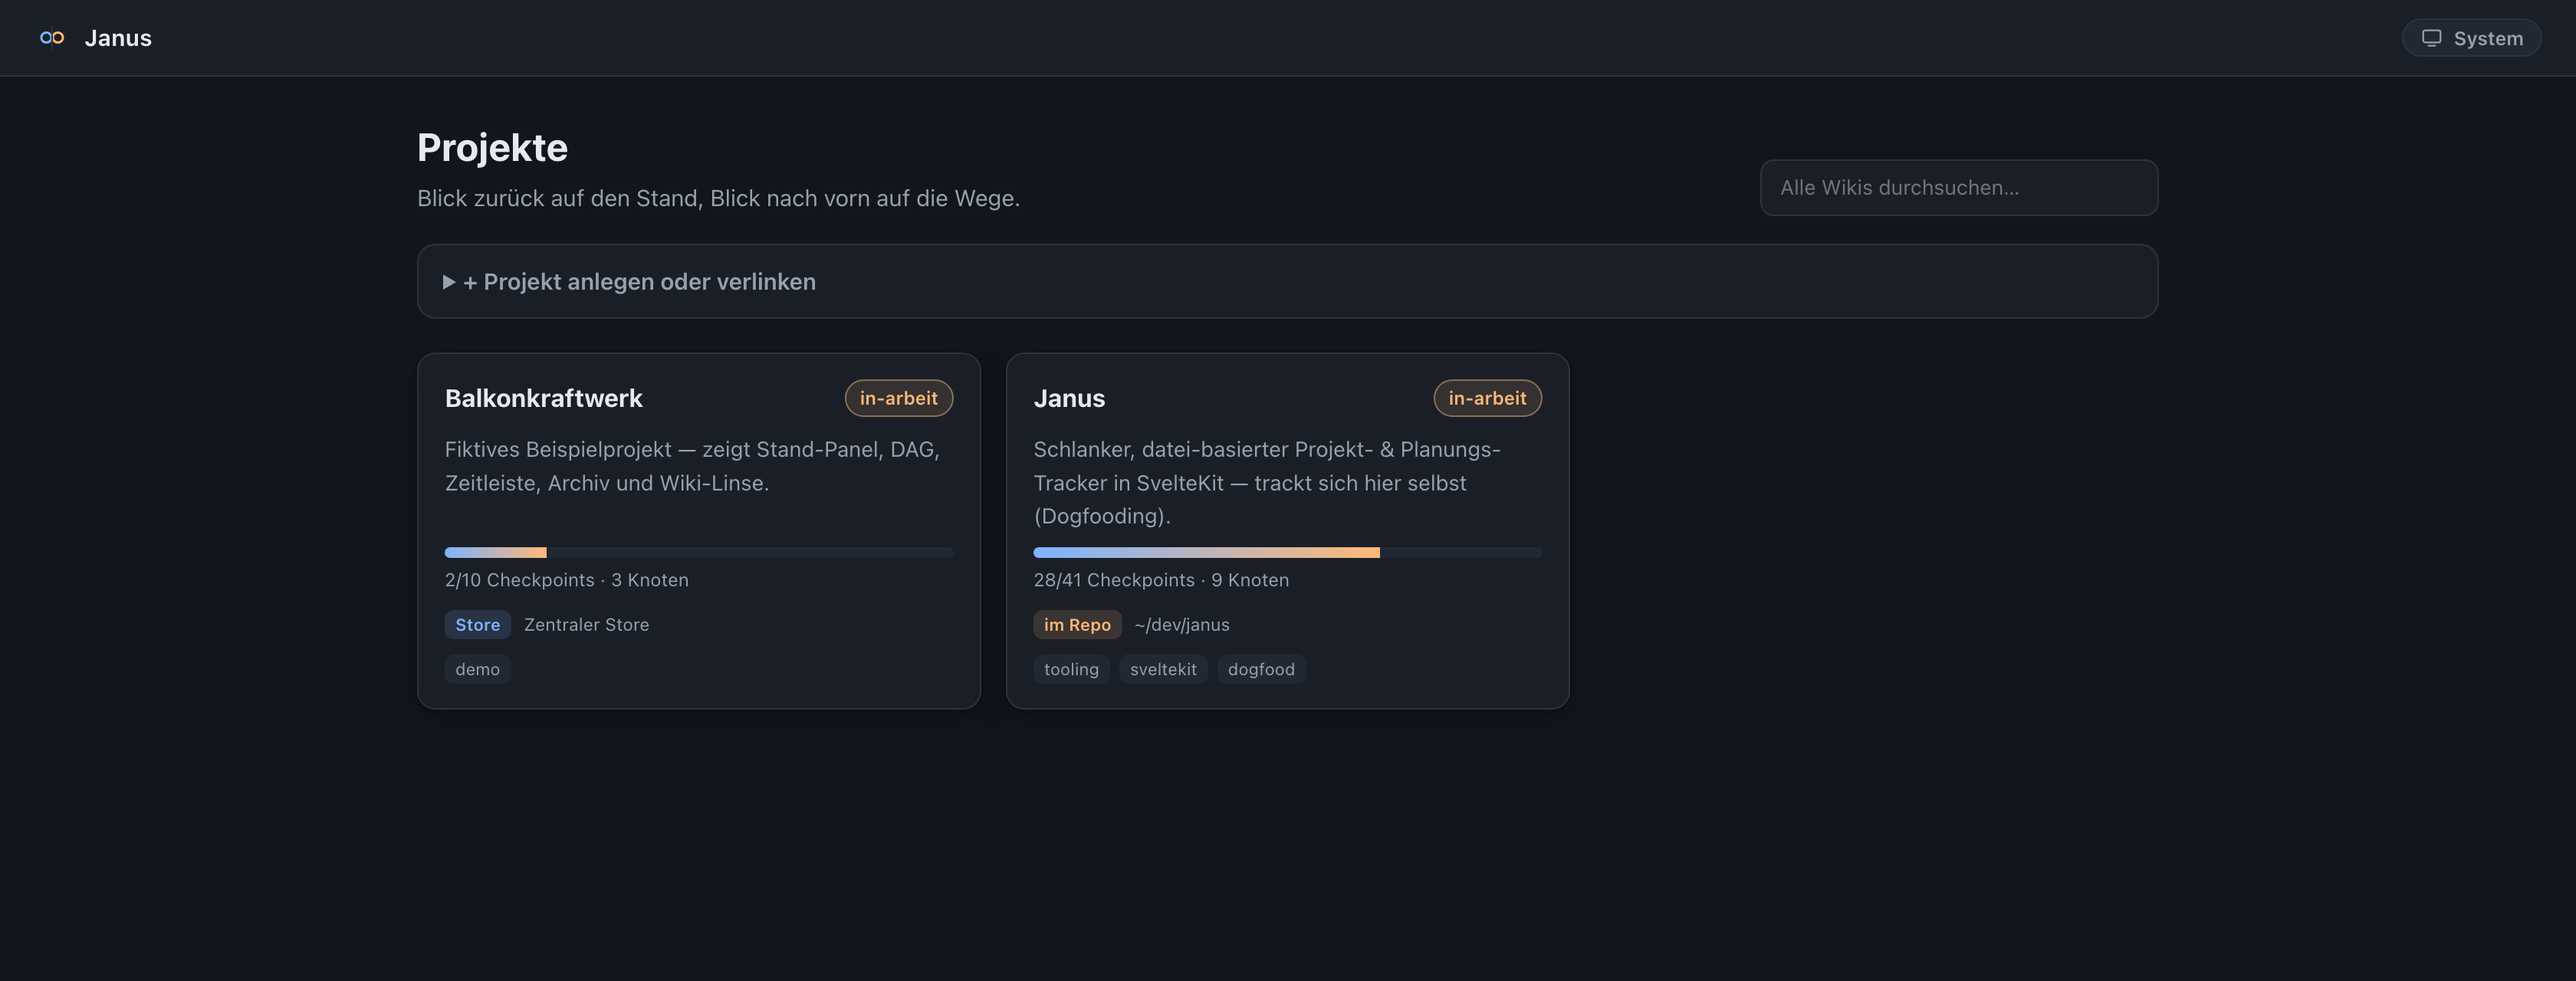
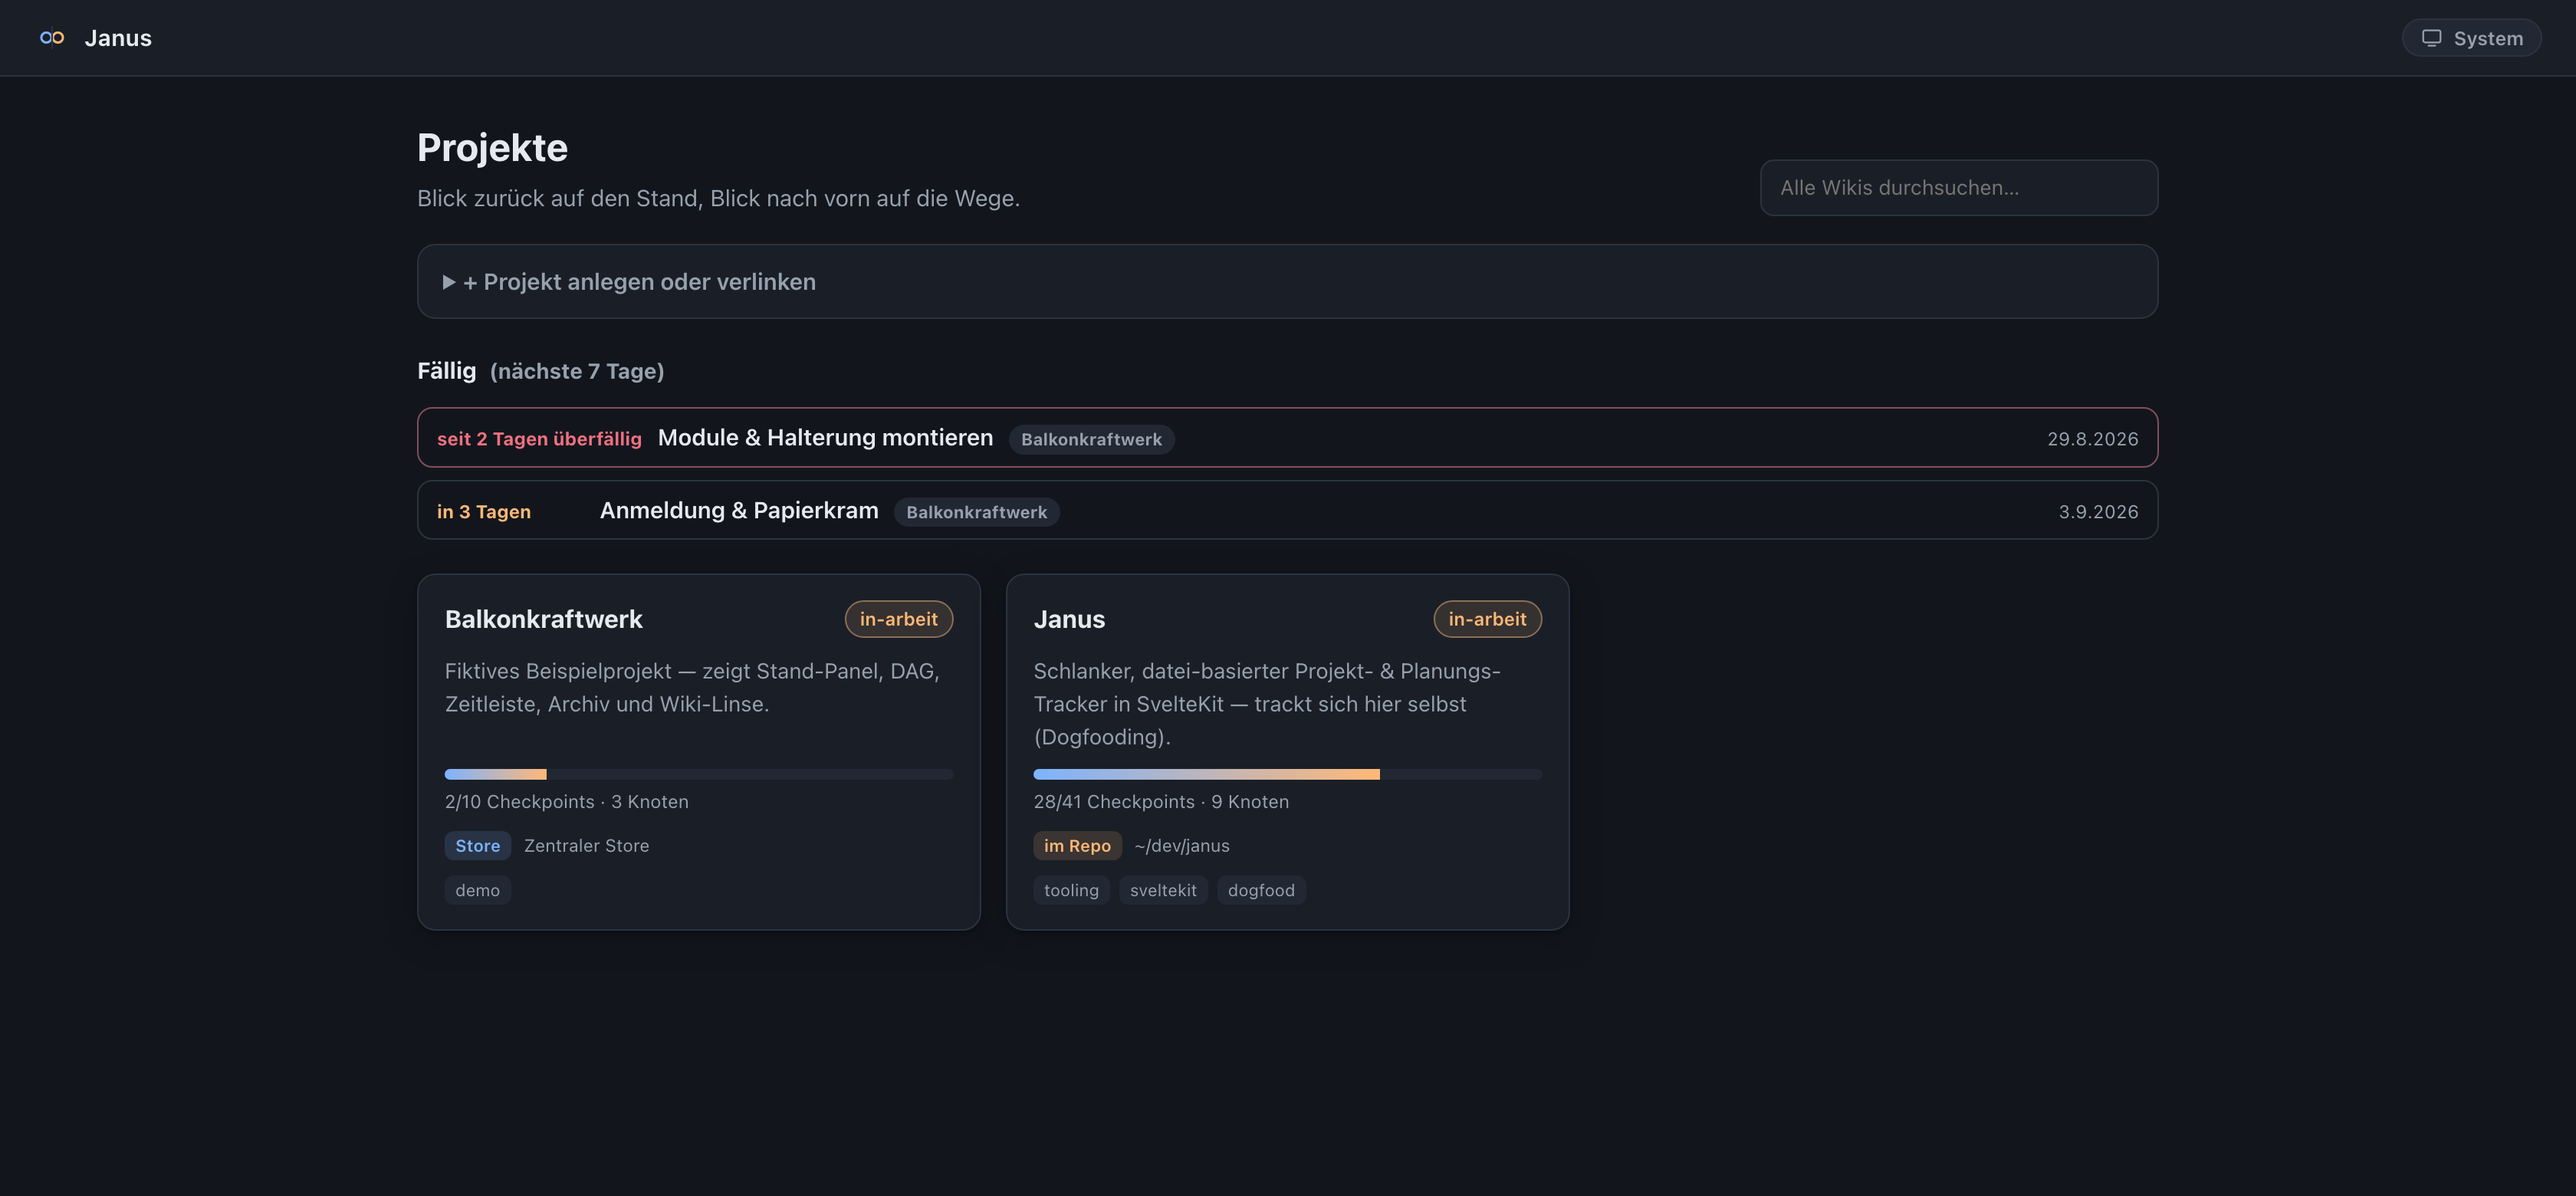
Fällig-Liste auf dem Dashboard
ende: eines nicht fertigen geplant/-Knotens gilt als Fälligkeit.
collectDeadlines() sammelt über alle Projekte Überfälliges plus die
nächsten 7 Tage, dringlichstes zuerst; das Dashboard zeigt sie als
Liste über den Projektkarten (Überfälliges rot, Klick = Deep-Link
?knoten=…). FORMAT.md dokumentiert die Konvention, Demo-Projekt und
Dashboard-Screenshot zeigen beide Fälle.

Claude-Session: https://claude.ai/code/session_017go7JBQatyB3GfnF9rFGd4

diff --git a/src/routes/+page.svelte b/src/routes/+page.svelte
@@ -11,6 +11,18 @@
 		goto(q ? '/?q=' + encodeURIComponent(q) : '/', { keepFocus: true });
 	}
 
+	function wannLabel(n) {
+		if (n < -1) return `seit ${-n} Tagen überfällig`;
+		if (n === -1) return 'seit gestern überfällig';
+		if (n === 0) return 'heute';
+		if (n === 1) return 'morgen';
+		return `in ${n} Tagen`;
+	}
+	function datumLabel(iso) {
+		const [y, m, d] = iso.split('-');
+		return `${+d}.${+m}.${y}`;
+	}
+
 	let newTitel = $state('');
 	let linkPath = $state('');
 	let linkTitel = $state('');
@@ -119,6 +131,24 @@
 		</div>
 	</details>
 
+	{#if data.deadlines.length > 0}
+		<section class="faellig">
+			<h2>Fällig <span class="dim">(nächste 7 Tage)</span></h2>
+			{#each data.deadlines as d (d.projektId + ':' + d.knotenId)}
+				<a
+					class="f-item"
+					class:ueberfaellig={d.inTagen < 0}
+					href="/projekt/{d.projektId}?knoten={d.knotenId}"
+				>
+					<span class="f-wann">{wannLabel(d.inTagen)}</span>
+					<span class="f-titel">{d.titel}</span>
+					<span class="f-badge">{d.projektTitel}</span>
+					<span class="f-datum">{datumLabel(d.ende)}</span>
+				</a>
+			{/each}
+		</section>
+	{/if}
+
 	{#if data.projects.length === 0}
 		<div class="empty">
 			<p>Noch keine Projekte.</p>
@@ -156,6 +186,66 @@
 		font: inherit;
 		font-size: 13.5px;
 	}
+	.faellig {
+		margin-bottom: 22px;
+	}
+	.faellig h2 {
+		font-size: 15px;
+		display: flex;
+		align-items: baseline;
+		gap: 8px;
+	}
+	.f-item {
+		display: flex;
+		align-items: baseline;
+		gap: 10px;
+		padding: 7px 12px;
+		border: 1px solid var(--border);
+		border-radius: 10px;
+		margin-bottom: 8px;
+		text-decoration: none;
+		color: var(--text);
+	}
+	.f-item:hover {
+		border-color: var(--accent);
+	}
+	.f-wann {
+		flex: none;
+		min-width: 96px;
+		font-size: 12px;
+		font-weight: 700;
+		color: var(--future);
+	}
+	.f-item.ueberfaellig {
+		border-color: color-mix(in srgb, var(--kat-vorfall) 45%, var(--border));
+	}
+	.f-item.ueberfaellig .f-wann {
+		color: var(--kat-vorfall);
+	}
+	.f-titel {
+		font-weight: 600;
+		min-width: 0;
+		overflow: hidden;
+		text-overflow: ellipsis;
+		white-space: nowrap;
+	}
+	.f-badge {
+		flex: none;
+		font-size: 11px;
+		font-weight: 700;
+		padding: 1px 8px;
+		border-radius: 99px;
+		background: var(--surface-2);
+		color: var(--text-dim);
+	}
+	.f-datum {
+		flex: none;
+		margin-left: auto;
+		font-size: 12px;
+		color: var(--text-dim);
+		font-variant-numeric: tabular-nums;
+	}
+
 	.wiki-treffer {
 		margin-bottom: 22px;
 	}

diff --git a/src/lib/server/projects.js b/src/lib/server/projects.js
@@ -185,6 +185,55 @@ function aggregateTasks(dir) {
 	return { progress: { done, total }, nodeCount: nodes };
 }
 
+/** Lokales Heute als YYYY-MM-DD (Datumsvergleiche laufen rein über Strings). */
+function heuteStr() {
+	const d = new Date();
+	return [
+		d.getFullYear(),
+		String(d.getMonth() + 1).padStart(2, '0'),
+		String(d.getDate()).padStart(2, '0')
+	].join('-');
+}
+
+/** Differenz zweier YYYY-MM-DD-Strings in ganzen Tagen (b - a). */
+function tageZwischen(a, b) {
+	const [ay, am, ad] = a.split('-').map(Number);
+	const [by, bm, bd] = b.split('-').map(Number);
+	return Math.round((Date.UTC(by, bm - 1, bd) - Date.UTC(ay, am - 1, ad)) / 86400000);
+}
+
+/**
+ * Fällige Knoten über alle Projekte: `ende:` auf einem nicht fertigen
+ * geplant/-Knoten gilt als Fälligkeitsdatum. Liefert Überfälliges plus alles,
+ * was in den nächsten `tage` Tagen ansteht — dringlichstes zuerst.
+ */
+export function collectDeadlines(tage = 7) {
+	const heute = heuteStr();
+	const out = [];
+	for (const p of registry()) {
+		const dir = path.join(p.dir, 'geplant');
+		for (const f of listMarkdown(dir)) {
+			const parsed = matter(readIfExists(path.join(dir, f)) ?? '');
+			const status = (parsed.data.status || 'offen').toLowerCase();
+			if (status === 'fertig') continue;
+			const ende = toDateStr(parsed.data.ende ?? parsed.data.end);
+			if (!ende) continue;
+			const inTagen = tageZwischen(heute, ende);
+			if (inTagen > tage) continue;
+			out.push({
+				projektId: p.id,
+				projektTitel: p.manifest.titel,
+				knotenId: parsed.data.id || f.replace(/\.md$/i, ''),
+				titel: parsed.data.title || parsed.data.titel || titleFromFilename(f),
+				ende,
+				inTagen
+			});
+		}
+	}
+	out.sort((a, b) => a.inTagen - b.inTagen || a.titel.localeCompare(b.titel, 'de'));
+	return out;
+}
+
 /** Lightweight summaries for the dashboard. */
 export function listProjects() {
 	const projects = registry().map((p) => ({

diff --git a/src/routes/+page.server.js b/src/routes/+page.server.js
@@ -1,4 +1,4 @@
-import { listProjects, registry } from '$lib/server/projects.js';
+import { listProjects, registry, collectDeadlines } from '$lib/server/projects.js';
 import { dataRoot, projectSubdir } from '$lib/server/config.js';
 import { loadWissen, sucheWissen } from '$lib/server/wissen.js';
 
@@ -18,6 +18,7 @@ export function load({ url }) {
 
 	return {
 		projects: listProjects(),
+		deadlines: collectDeadlines(),
 		dataRoot: dataRoot(),
 		projectSubdir: projectSubdir(),
 		q,

diff --git a/.janus/stand/chronik.md b/.janus/stand/chronik.md
@@ -7,6 +7,10 @@ Kurzlog der Janus-Entwicklung (neueste zuerst). ⚖ Entscheidung · ⚡ Meile
 
 ## August 2026
 
+- **31.08.** ⚡ **Fällig-Liste** auf dem Dashboard: `ende:` eines nicht
+  fertigen Knotens gilt als Fälligkeit; angezeigt werden Überfälliges und die
+  nächsten 7 Tage, dringlichstes zuerst.
+
 - **25.08.** ⚡ **Zeitleisten-Ansicht, Rail-Tabs und Archiv** gebaut und released: Aktivitätsstreifen aus der Chronik + Themen-Gantt mit Langläufer-Warnung; `abgeschlossen/` als Archiv-Ordner; Selbst-Doku (FORMAT, README, AGENTS-Template) nachgezogen.
 - **25.08.** ⚖ Konvention eingeführt: beendete Knoten wandern nach `abgeschlossen/` statt im aktiven Graph zu bleiben; optionale `start:`/`ende:`-Frontmatter für die Zeitleiste.
 - **21.08.** ⚡ Feature `pin: right` — jede `stand/`-Datei kann als rechte Seitenleiste gepinnt werden (entstanden für die Chronik in einem privaten Projekt).

diff --git a/FORMAT.md b/FORMAT.md
@@ -127,6 +127,9 @@ ende: 2026-06-30                    # optional – fehlt = läuft bis heute
 - Der Fortschritt eines Knotens = abgehakte / gesamte Checkpoints im Body.
 - `start:` / `ende:` sind optional (`JJJJ-MM-TT`, auch `TT.MM.JJJJ`) und speisen
   den Themen-Gantt der Zeitleisten-Ansicht.
+- `ende:` auf einem **nicht fertigen** Knoten gilt zugleich als Fälligkeit:
+  das Dashboard zeigt Überfälliges und alles, was in den nächsten 7 Tagen
+  ansteht, als „Fällig"-Liste (dringlichstes zuerst).
 
 ## abgeschlossen/\*.md – das Archiv
 

diff --git a/README.md b/README.md
@@ -28,7 +28,9 @@ gepinnte Chronik:
 ![Projektseite mit Stand-Panel, DAG und Chronik](docs/screenshots/projekt.png)
 
 **Dashboard** — zentraler Store und verlinkte Repos nebeneinander, mit
-Fortschritt und globaler Wiki-Suche:
+Fortschritt, globaler Wiki-Suche und einer **Fällig-Liste**: `ende:` eines
+nicht fertigen Knotens gilt als Fälligkeit, gezeigt werden Überfälliges und
+die nächsten 7 Tage (dringlichstes zuerst):
 
 ![Dashboard mit Projektkarten](docs/screenshots/dashboard.png)
 

diff --git a/projekte/balkonkraftwerk/geplant/anmeldung.md b/projekte/balkonkraftwerk/geplant/anmeldung.md
@@ -4,6 +4,7 @@ title: Anmeldung & Papierkram
 status: in-arbeit
 depends_on: [recherche]
 start: 2026-08-26
+ende: 2026-09-03
 ---
 
 Läuft parallel zur Montage — siehe [[einspeisung]] im Wiki für die Regeln.

diff --git a/projekte/balkonkraftwerk/geplant/montage.md b/projekte/balkonkraftwerk/geplant/montage.md
@@ -4,6 +4,7 @@ title: Module & Halterung montieren
 status: in-arbeit
 depends_on: [recherche]
 start: 2026-08-26
+ende: 2026-08-29
 ---
 
 ## Checkpoints
